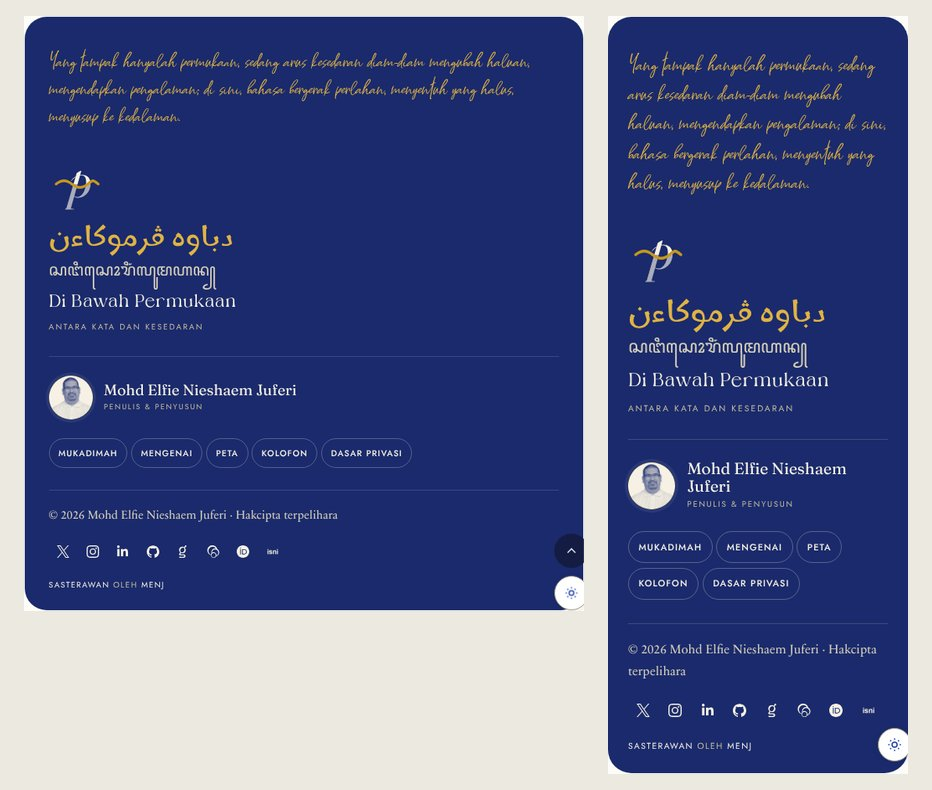
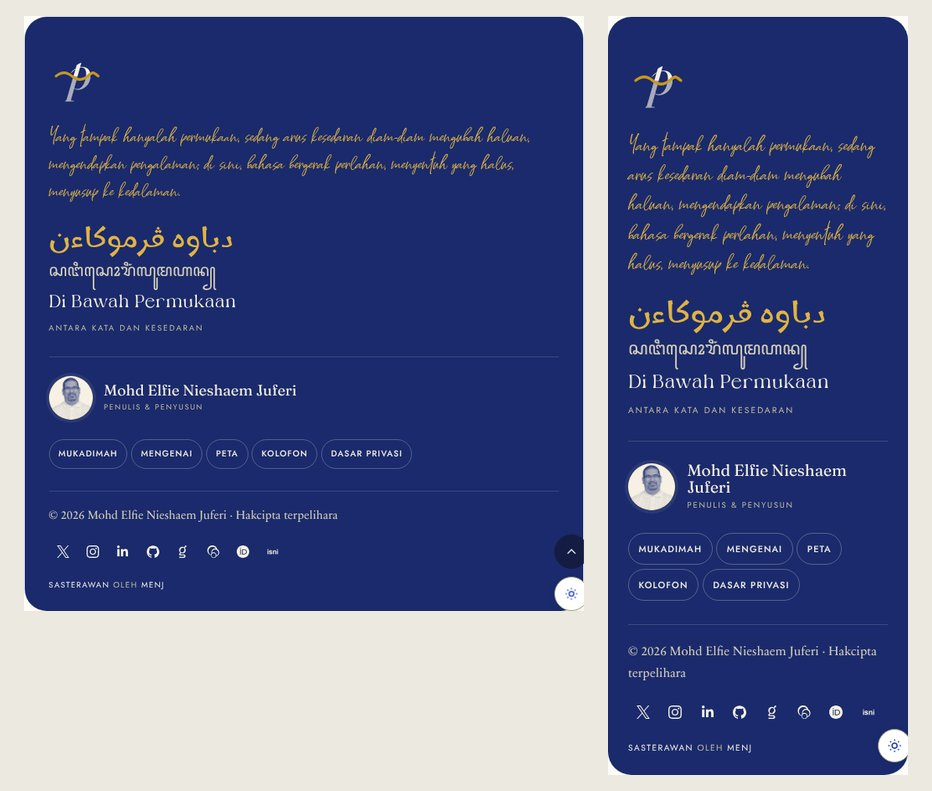
Footer: brandmark opens the stacked footer on tablet and phone
Claude-Session: https://claude.ai/code/session_01Er8Hpy67qX5wHknT6MnoT1

diff --git a/assets/css/frontend.css b/assets/css/frontend.css
@@ -1092,10 +1092,11 @@ body.bwp-archive-masonry .bwp-archive-list__item { width: 49%; margin-bottom: .7
     .bwp-site-footer { padding-top: 2.5rem; }
     .bwp-site-footer__inner { gap: 1.75rem; }
     .bwp-site-footer__row { padding-top: 1.5rem; }
-    .bwp-site-footer__top { grid-template-columns: 1fr; }
-    /* stacked footer: the brandmark leads the identity block, above the Jawi and name */
-    .bwp-site-footer__identity { flex-direction: column; align-items: flex-start; justify-content: flex-start; gap: .9rem; }
-    .bwp-site-footer__identity .bwp-site-footer__mark { width: 72px; height: 72px; }
+    /* stacked footer: brandmark first at the top, then the sign-off, then the identity text */
+    .bwp-site-footer__top { display: flex; flex-direction: column; align-items: flex-start; gap: 1.5rem; }
+    .bwp-site-footer__identity { display: contents; }
+    .bwp-site-footer__identity .bwp-site-footer__mark { order: -1; width: 72px; height: 72px; }
+    .bwp-site-footer__identity-text { order: 1; }
     .bwp-site-footer__identity-text { align-items: flex-start; text-align: left; }
     .bwp-site-footer__identity .bwp-site-footer__jawi { text-align: left; }
     .bwp-site-footer__bottom { grid-template-columns: 1fr; }
